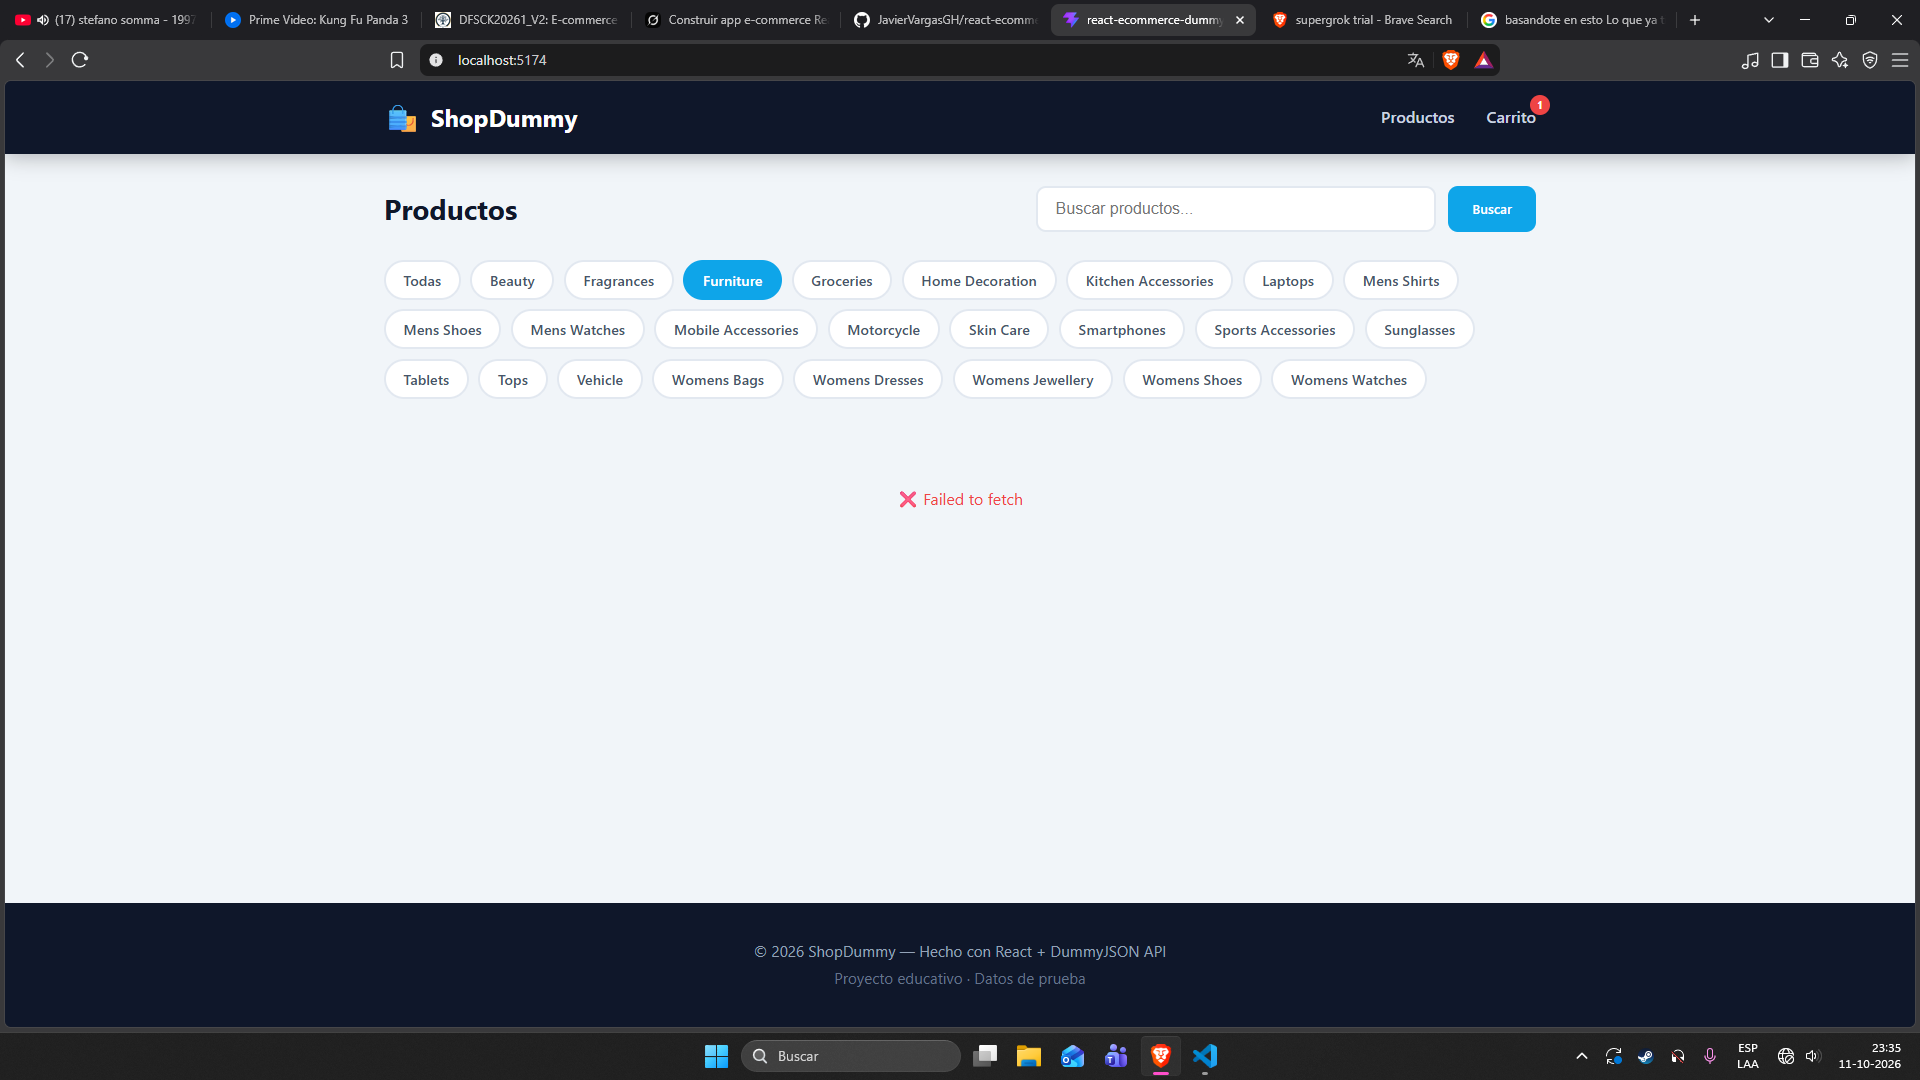
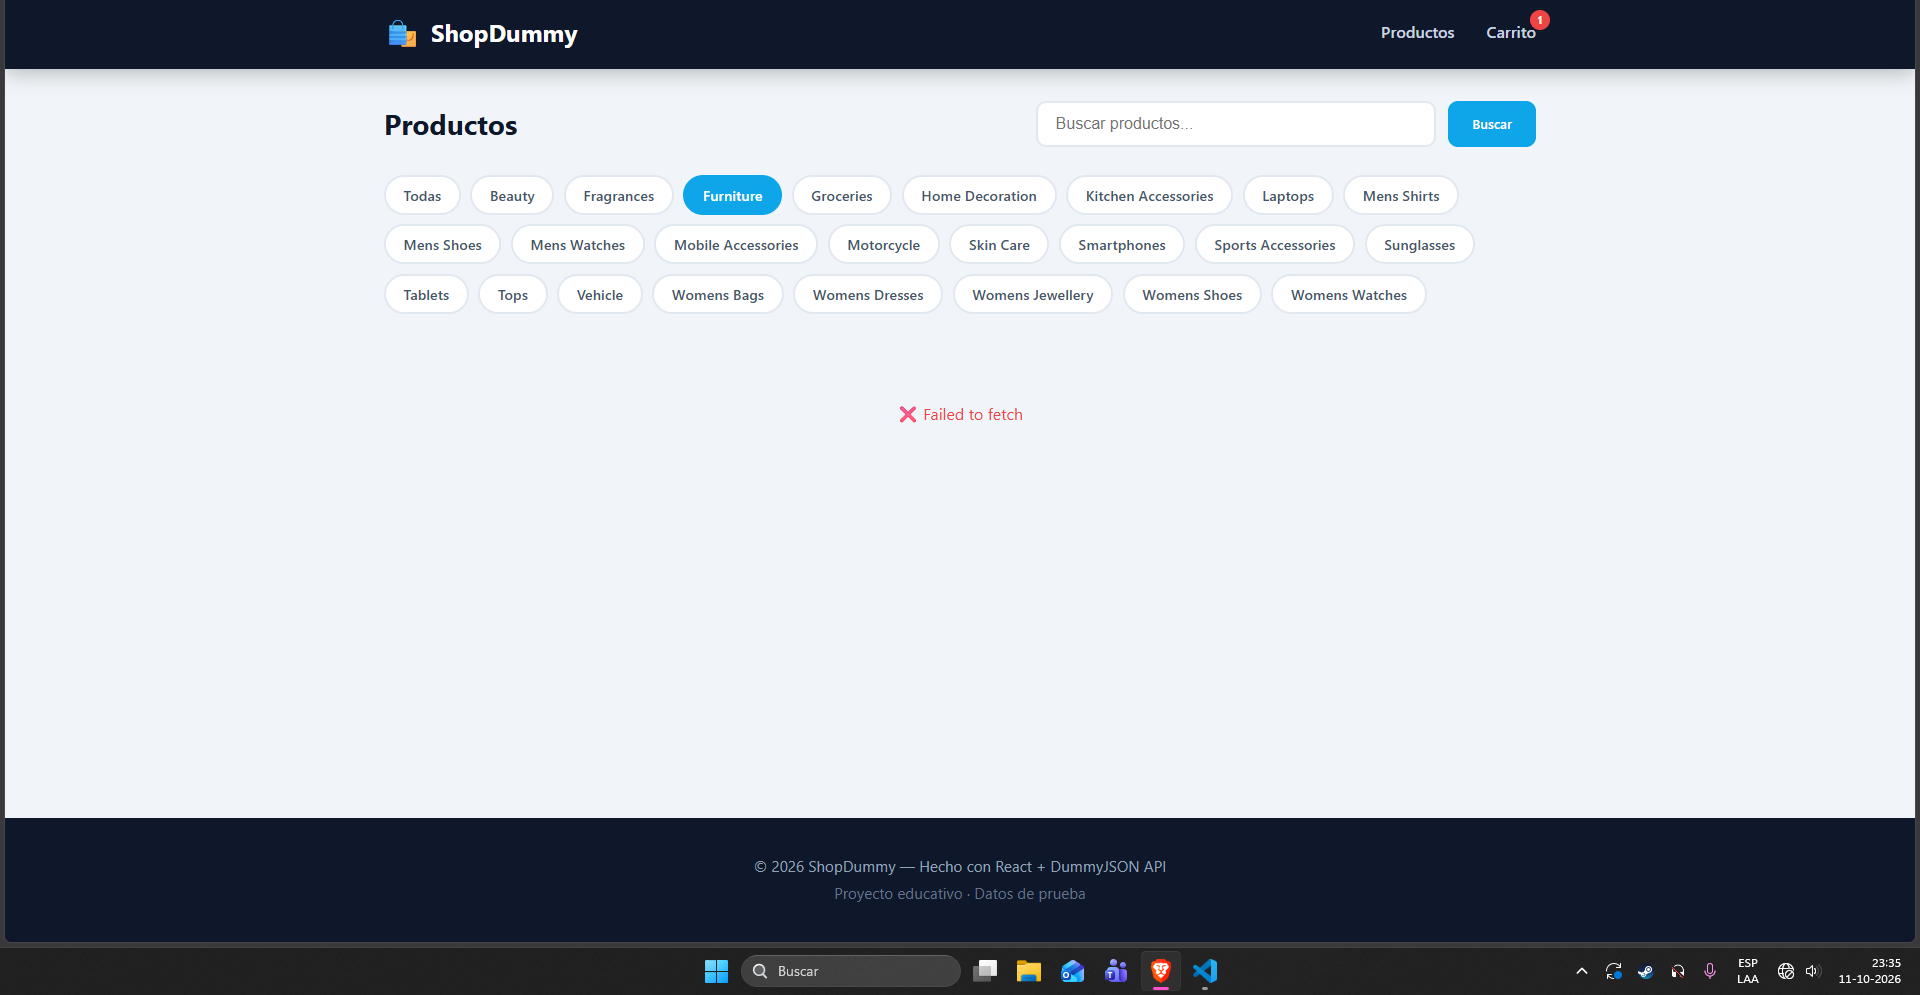
fix: ordenar capturas de pantalla y cerrar formato de codigo

diff --git a/README.md b/README.md
@@ -53,16 +53,16 @@ npm run dev
 ## 📸 Capturas de Pantalla
 
 ### Vista Principal
-![Vista Principal](./ss/1.png)
+![Vista Principal](./ss/2.png)
 
 ### Búsqueda de Productos
-![Búsqueda de Productos](./ss/2.png)
+![Búsqueda de Productos](./ss/1.png)
 
 ### Tarjeta de Producto
-![Tarjeta de Producto](./ss/3.png)
+![Tarjeta de Producto](./ss/4.png)
 
 ### Estado de Carga (Loader)
-![Componente de Carga](./ss/4.png)
+![Componente de Carga](./ss/3.png)
 
 ### Mensaje de Error (ErrorMessage)
-![Mensaje de Error](./ss/5.png)
+![Mensaje de Error](./ss/1.png)
